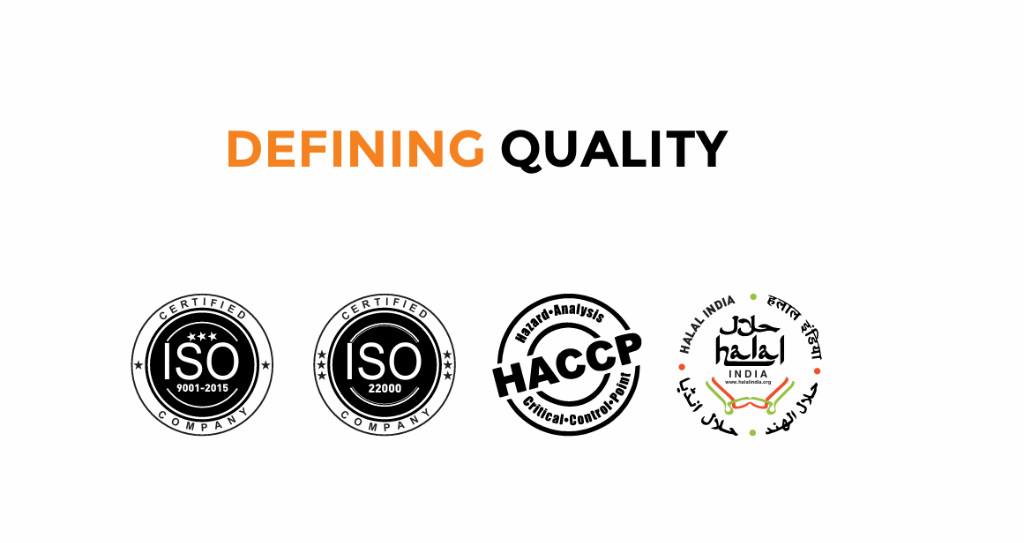
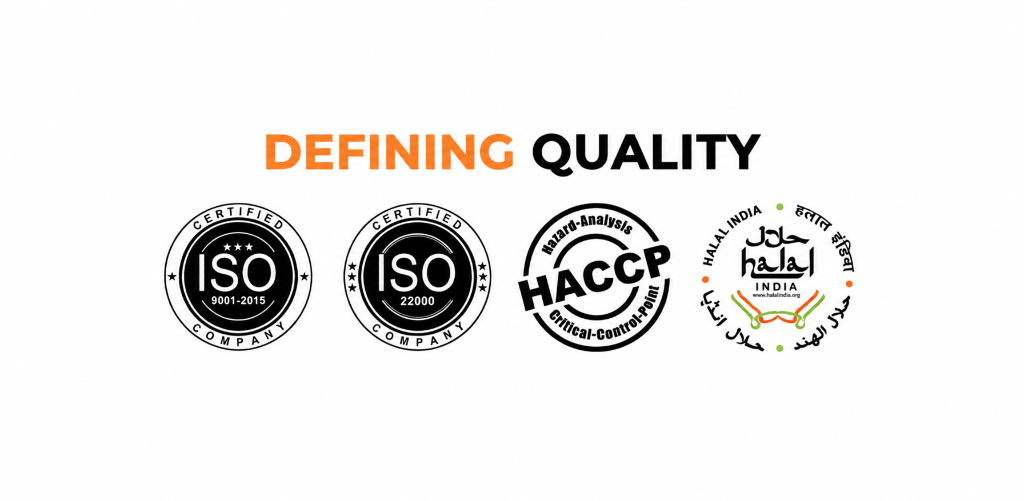
Videos to responsive

Changed region(s): [[0.125, 0.3892, 0.8438, 0.8084], [0.2188, 0.2395, 0.75, 0.3593], [0.75, 0.3892, 0.7812, 0.4192]]

diff --git a/src/app/page.jsx b/src/app/page.jsx
@@ -75,17 +75,20 @@ export default function Home() {
         </ScrollReveal>
       </section>
 
-      <section className="w-full bg-black">
-        <div className="relative h-[92vh] min-h-[420px] w-full overflow-hidden">
+      {/* 3. PRODUCT SHOWCASE VIDEO BANNER */}
+      <section className="w-full bg-black overflow-hidden flex items-center justify-center">
+        <div className="relative w-full max-w-[1920px] mx-auto aspect-video">
           <video
             src="/erasio_Creating_bakery_product_showcase…_1080p_20260919120418.mp4"
             autoPlay
             loop
             muted
             playsInline
+            preload="auto"
+            aria-label="Olene Canto Cheese Cookies Artisanal Showcase"
             className="h-full w-full object-cover"
           />
-          <div className="absolute inset-0 bg-black/10" />
+          <div className="absolute inset-0 bg-black/10 pointer-events-none" />
         </div>
       </section>
 

diff --git a/src/components/DefiningQualitySection.jsx b/src/components/DefiningQualitySection.jsx
@@ -20,8 +20,8 @@ export default function DefiningQualitySection({ theme = "light" }) {
           <Image
             src={isDark ? "/defining-quality-dark.png" : "/defining-quality.png"}
             alt="Defining Quality - ISO 9001-2015, ISO 22000, HACCP, Halal India Certified"
-            width={isDark ? 1000 : 1400}
-            height={isDark ? 450 : 600}
+            width={isDark ? 1000 : 1024}
+            height={isDark ? 450 : 501}
             className={`w-full h-auto object-contain ${
               isDark
                 ? "max-h-[260px] sm:max-h-[340px] drop-shadow-[0_4px_24px_rgba(255,255,255,0.06)]"
